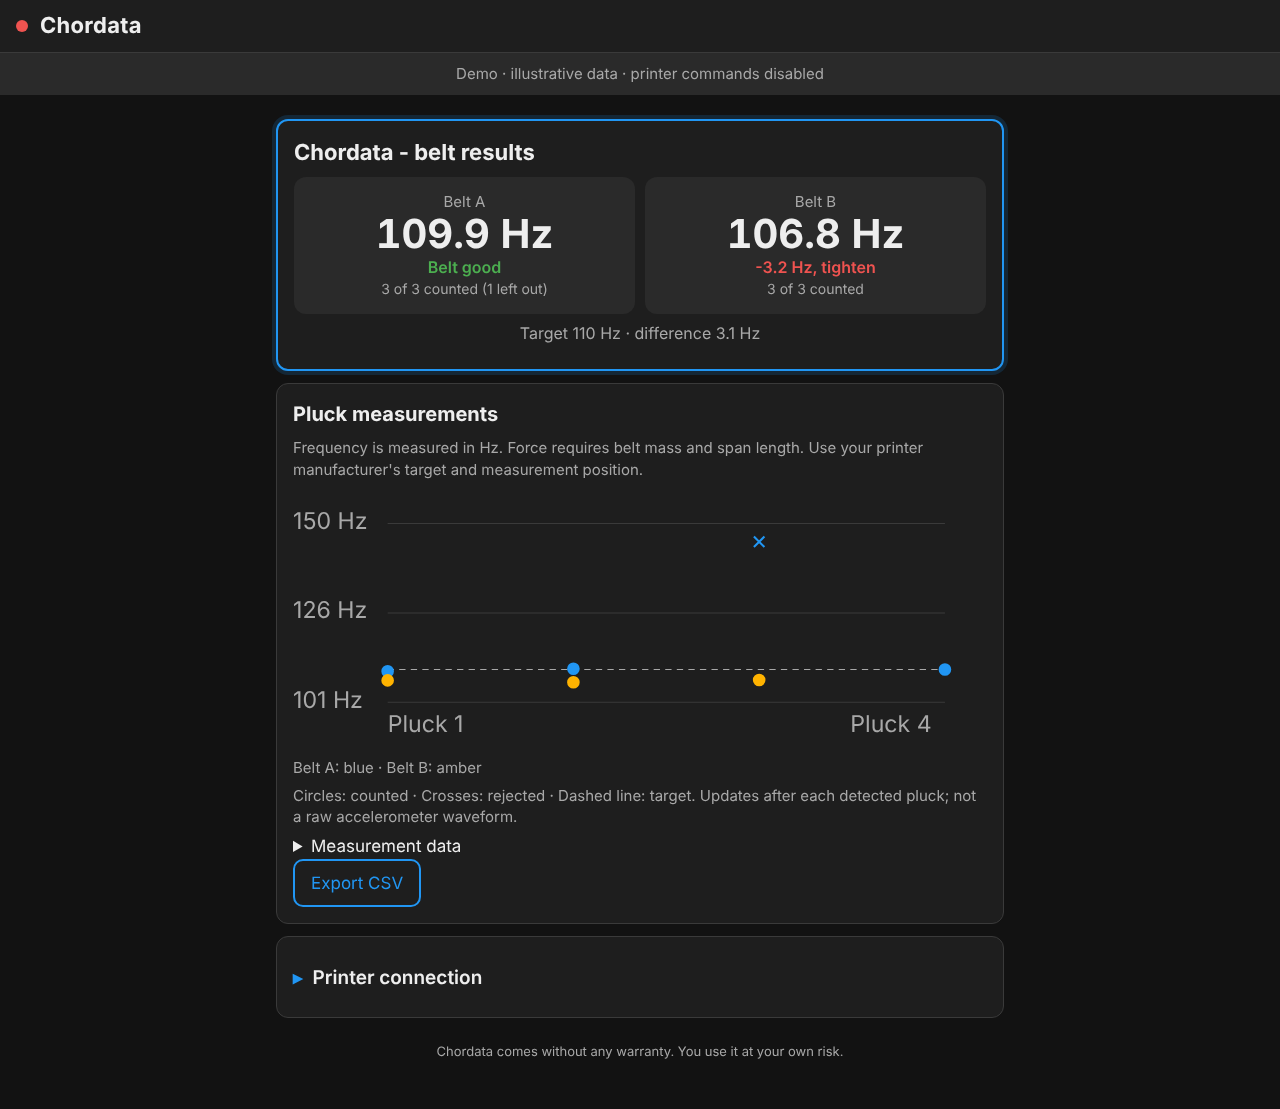
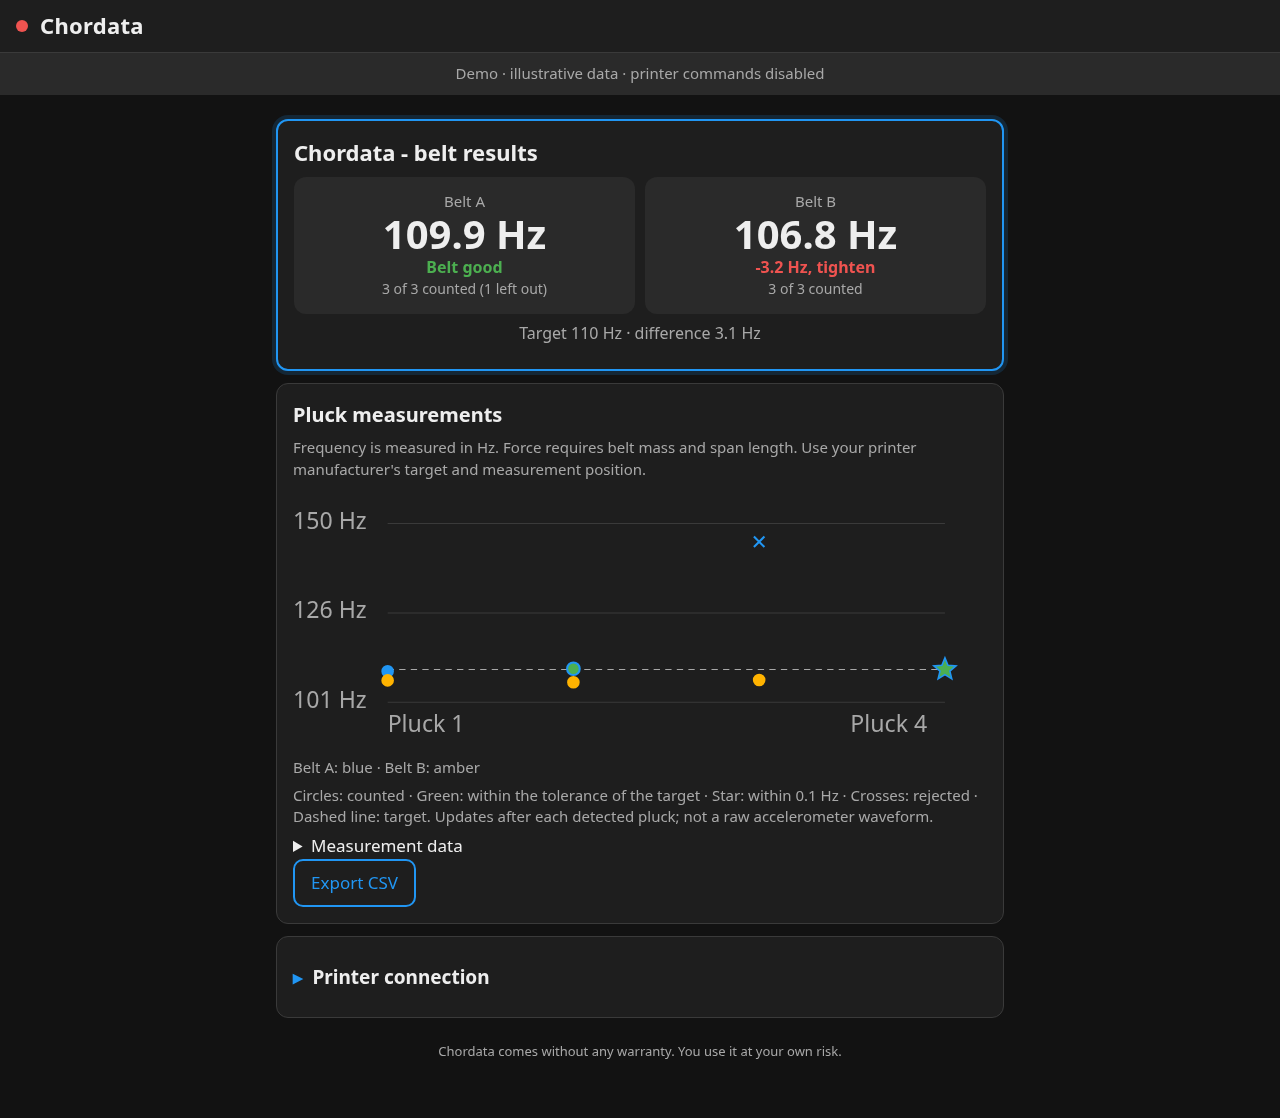
Chart: on-target plucks green, within 0.1 Hz a star
A counted pluck within the tolerance of the target (0.25 Hz by default)
is drawn as a green dot, within 0.1 Hz as a green star, both ringed in
the belt's colour so A and B stay apart.

diff --git a/web/index.html b/web/index.html
@@ -295,7 +295,7 @@ summary:focus-visible { outline:3px solid var(--primary); outline-offset:2px; }
   </section>
 <section class="card" id="measurePanel" hidden><h2>Pluck measurements</h2>
 <p class="help">Frequency is measured in Hz. Force requires belt mass and span length. Use your printer manufacturer's target and measurement position.</p>
-<div id="trend"></div><p class="small muted">Circles: counted · Crosses: rejected · Dashed line: target. Updates after each detected pluck; not a raw accelerometer waveform.</p>
+<div id="trend"></div><p class="small muted">Circles: counted · Green: within the tolerance of the target · Star: within 0.1 Hz · Crosses: rejected · Dashed line: target. Updates after each detected pluck; not a raw accelerometer waveform.</p>
 <details><summary>Measurement data</summary><div class="measurements"><table><thead><tr><th scope="col">Belt</th><th scope="col">Pluck</th><th scope="col">Hz</th><th scope="col">Result</th><th scope="col">Reason</th></tr></thead><tbody id="measureRows"></tbody></table></div></details>
 <button type="button" id="exportBtn">Export CSV</button></section>
 <details class="card" id="authPanel"><summary>Printer connection</summary><form id="authForm"><div class="field"><label for="moonrakerKey">Moonraker API key</label><input id="moonrakerKey" type="password" autocomplete="off"></div><p class="help">Held in memory for this page only. Reload to forget it.</p><button type="submit">Authenticate</button></form></details>
@@ -895,6 +895,15 @@ function measurementRows() {
   }
   return rows;
 }
+const STAR_HZ = 0.1;      // a pluck this close to the target is drawn as a star
+function star(cx, cy, r) {
+  const pts = [];
+  for (let i = 0; i < 10; i++) {
+    const a = -Math.PI / 2 + i * Math.PI / 5, q = i % 2 ? r * 0.45 : r;
+    pts.push((cx + q * Math.cos(a)).toFixed(1) + ',' + (cy + q * Math.sin(a)).toFixed(1));
+  }
+  return pts.join(' ');
+}
 function renderMeasurements() {
   const rows=measurementRows(); show('measurePanel',rows.length>0);
   const body=$('measureRows'); body.replaceChildren();
@@ -903,13 +912,18 @@ function renderMeasurements() {
   const svg=document.createElementNS('http://www.w3.org/2000/svg','svg');
   svg.setAttribute('viewBox','0 0 660 240'); svg.setAttribute('class','trend'); svg.setAttribute('role','img'); svg.setAttribute('aria-label','Frequency by pluck number for belts A and B. Exact values follow in Measurement data.');
   const add=(tag,attrs,text)=>{ const n=document.createElementNS(svg.namespaceURI,tag); for(const k in attrs)n.setAttribute(k,attrs[k]); if(text)n.textContent=text; svg.appendChild(n); };
+  const tol=Number((pt().belts || {}).tol) || 0.25;
   const target=Number((pt().belts || {}).target), values=rows.filter(r=>r.freq!=null && Number.isFinite(Number(r.freq))).map(r=>Number(r.freq));
   if(target>0)values.push(target); if(!values.length) { holder.appendChild(el('p',{},'No frequency detected yet.')); return; }
   const low=Math.floor(Math.min(...values)-5), high=Math.ceil(Math.max(...values)+5), maxN=Math.max(2,...rows.map(r=>r.index));
   const y=f=>200-(f-low)/(high-low)*170, x=i=>90+(i-1)/(maxN-1)*530;
   for(let n=0;n<3;n++) { const f=low+(high-low)*n/2; add('line',{x1:90,y1:y(f),x2:620,y2:y(f),stroke:'var(--line)'}); add('text',{x:0,y:y(f)+5},f.toFixed(0)+' Hz'); }
   if(target>0)add('line',{x1:90,y1:y(target),x2:620,y2:y(target),stroke:'var(--muted)','stroke-dasharray':'6 5'});
-  for(const r of rows) { if(r.freq==null || !Number.isFinite(Number(r.freq)))continue; const px=x(r.index),py=y(Number(r.freq)),color=r.belt==='A'?'var(--primary)':'var(--warn)',attrs={stroke:color,'stroke-width':2}; if(r.ok)add('circle',{...attrs,cx:px,cy:py,r:5,fill:color}); else add('path',{...attrs,d:`M${px-5},${py-5}l10,10m0,-10l-10,10`,fill:'none'}); }
+  for(const r of rows) { if(r.freq==null || !Number.isFinite(Number(r.freq)))continue; const px=x(r.index),py=y(Number(r.freq)),color=r.belt==='A'?'var(--primary)':'var(--warn)',attrs={stroke:color,'stroke-width':2}; const off=target>0?Math.abs(Number(r.freq)-target):Infinity;
+    // on target: within 0.1 Hz a green star, within the tolerance a green dot (ringed in the belt's colour)
+    if(r.ok && off<STAR_HZ) add('polygon',{...attrs,points:star(px,py,11),fill:'var(--ok)','stroke-width':1.5});
+    else if(r.ok && off<=tol) add('circle',{...attrs,cx:px,cy:py,r:6,fill:'var(--ok)'});
+    else if(r.ok)add('circle',{...attrs,cx:px,cy:py,r:5,fill:color}); else add('path',{...attrs,d:`M${px-5},${py-5}l10,10m0,-10l-10,10`,fill:'none'}); }
   add('text',{x:90,y:228},'Pluck 1'); add('text',{x:530,y:228},'Pluck '+maxN); holder.appendChild(svg); holder.appendChild(el('p',{class:'small muted'},'Belt A: blue · Belt B: amber'));
 }
 function csvMeasurements() {
